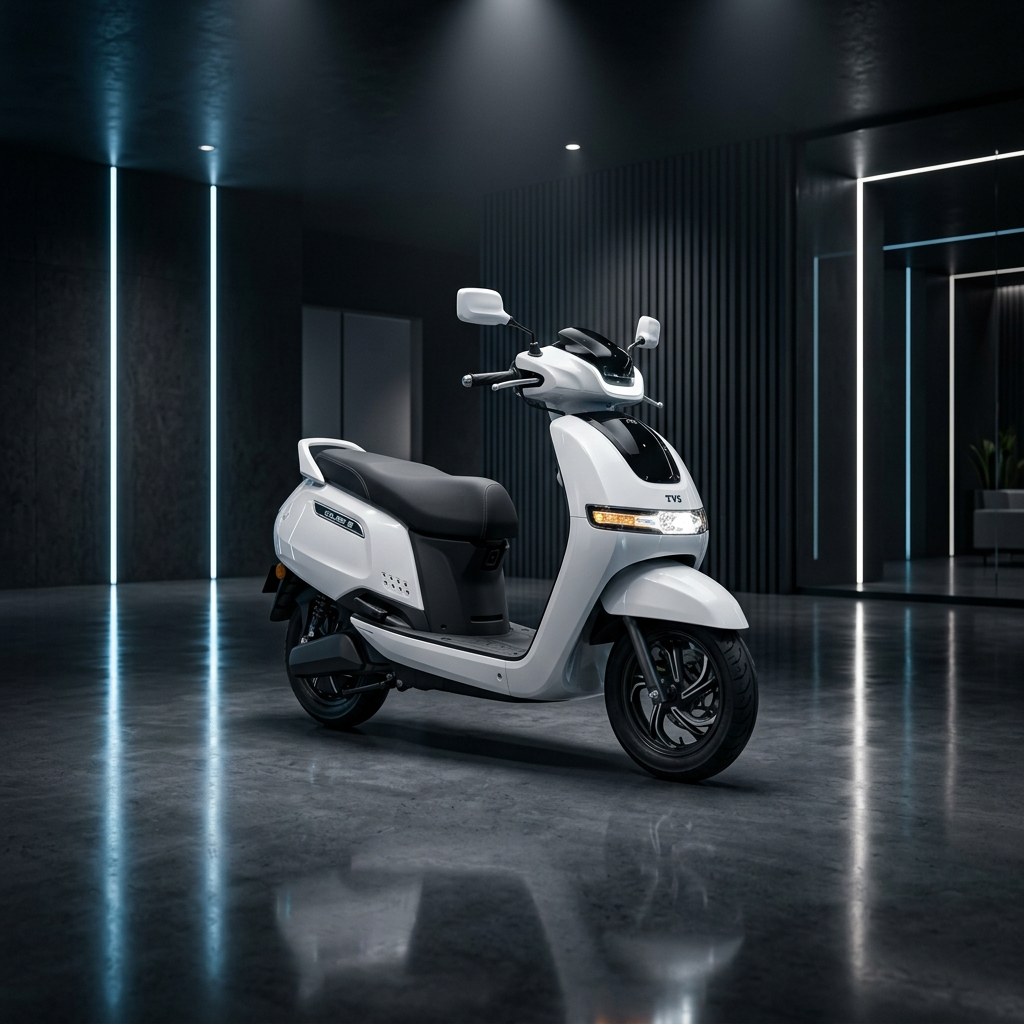
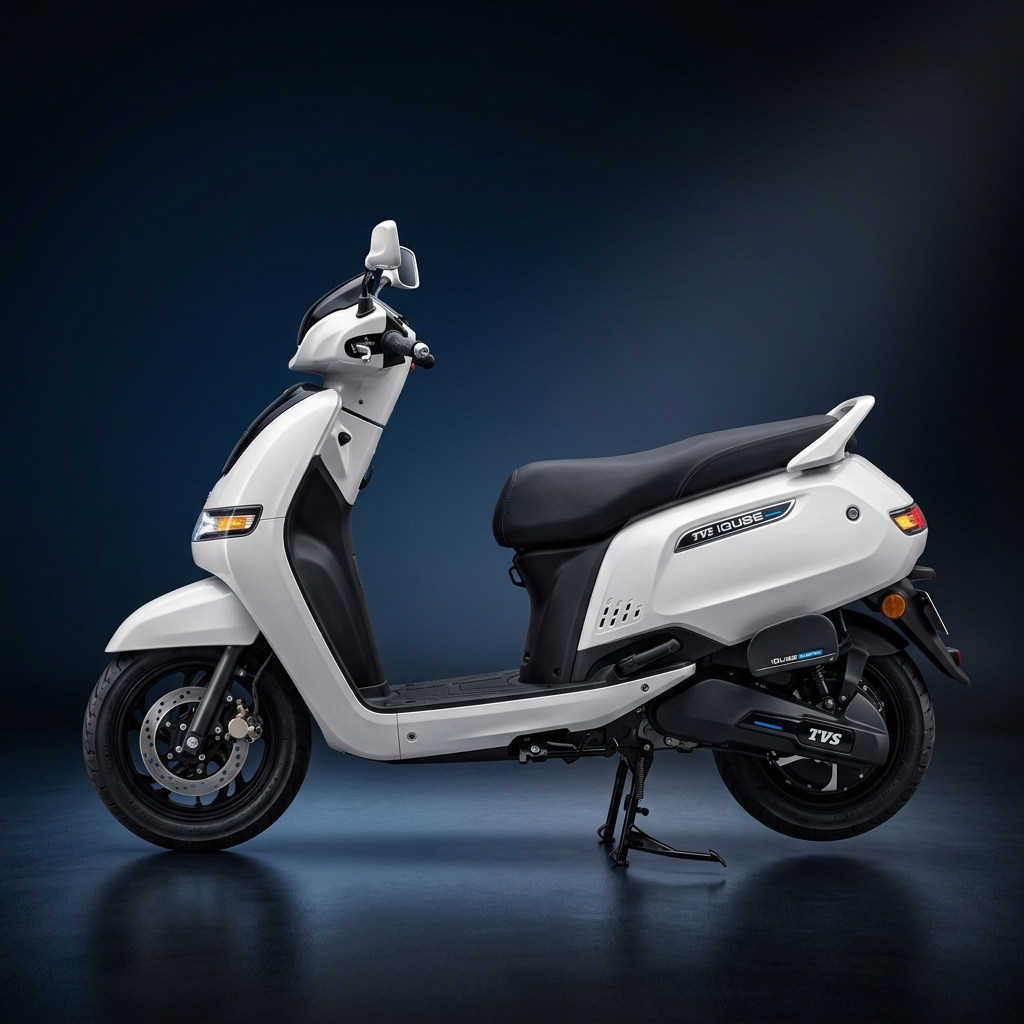
fix: update EV scooter images with matching dark navy backgrounds and align catalog cards

diff --git a/app/globals.css b/app/globals.css
@@ -1032,10 +1032,7 @@ a {
     overflow: hidden;
 }
 
-/* Set white background for the white-background TVS iQube photo so it matches its container and doesn't get darkened */
-.card-img-wrap:has(img[src*="iqube"]) {
-    background-color: #ffffff !important;
-}
+
 
 .card-img-wrap img {
     max-height: 160px;

diff --git a/app/data.ts b/app/data.ts
@@ -551,7 +551,7 @@ export const VEHICLES: Vehicle[] = [
     id: 'tvs_x',
     title: 'TVS X Premium EV',
     subtitle: 'High-Performance Electric Crossover',
-    image: '/assets/tvs_x.jpg',
+    image: '/assets/tvs_x.png',
     price: 264617,
     speed: '105 km/h',
     power: '11.0 kW',